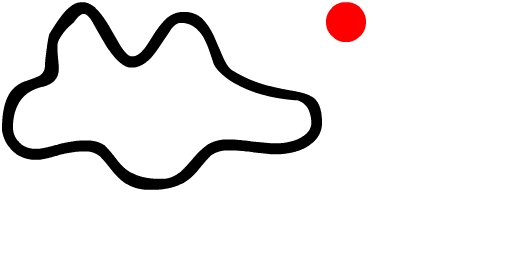
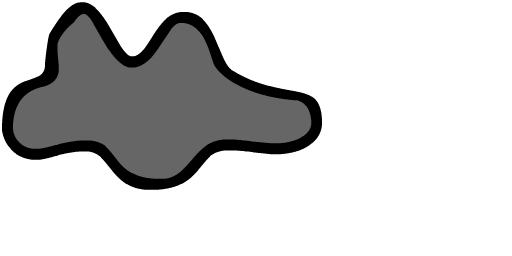
Coloring only happens inside the spaceship piece - includes multiple attempts

Changed region(s): [[0.0, 0.0312, 0.625, 0.7188], [0.625, 0.0, 0.7188, 0.1875]]

diff --git a/ColoringStage.js b/ColoringStage.js
@@ -15,9 +15,38 @@ var ColoringStage = function(assetManager, gameContainer) {
     // cache it (stores it as a seperate canvas)
     coloring.cache(0, 0, canvas.width, canvas.height);
     var spaceShip = assetManager.getSprite("assets");
-    spaceShip.gotoAndStop("outline");
+    spaceShip.gotoAndStop("spaceship");
+
+
+
+    // ATTEMPT IV
+    // http://community.createjs.com/discussions/easeljs/494-composite-operation-on-one-layer-knopckout-mask-as-example
+    // http://www.html5canvastutorials.com/advanced/html5-canvas-global-composite-operations-tutorial/
+    spaceShip.compositeOperation = "destination-atop";
+    spaceShip.cache(0, 0, canvas.width, canvas.height);
+
+
+
+    /*
+    // ATTEMPT III - NOT WORKING
+    // http://community.createjs.com/discussions/easeljs/584-alphamapfilter-using-alpha-png-image-to-mask-jpg
+    var mask = assetManager.getSprite("assets");
+    mask.gotoAndStop("outline");
+    var amf = new createjs.AlphaMaskFilter(mask);
+    screen.filters = [amf];
+    */
+
+    /*
+    // ATTEMPT II - WORKING BUT CUMBERSOME
+    var testy = new createjs.Shape();
+    testy.graphics.drawCircle(100, 100, 100);
+    coloring.mask = testy;
+    */
+
     screen.addChild(coloring);
     screen.addChild(spaceShip);
+
+    //screen.addChild(mask);
 
     // add screen to gameContainer for display
     gameContainer.addChild(screen);
@@ -41,6 +70,16 @@ var ColoringStage = function(assetManager, gameContainer) {
     function paintMe(e) {
         // prevents game scrolling or anything dumb
         e.preventDefault();
+
+
+        /*
+        // ATTEMPT I - WORKING BUT NOT EXACT
+        // only draw if pointer is overtop of spaceShip
+        var point = spaceShip.globalToLocal(e.touches[0].pageX, e.touches[0].pageY);
+        console.log("collision? " + spaceShip.hitTest(point.x, point.y));
+        if (!spaceShip.hitTest(point.x, point.y)) return;
+        */
+
 
         // place paint drop
         coloring.graphics.beginFill(brushColor);

diff --git a/Manifest.js b/Manifest.js
@@ -6,11 +6,8 @@ var manifest = [
         data:{
             "framerate":24,
             "images":["assets.png"],
-            "frames":[[2, 2, 320, 188, 0, 0, 0], [326, 2, 40, 40, 0, 20, 20]],
-            "animations":{
-                "outline": {"frames": [0], "speed": 1},
-                "redPaintDrop": {"frames": [1], "speed": 1}
-            }
+            "frames":[[2, 2, 320, 188, 0, 0, 0]],
+            "animations":{"body": {"frames": [0], "speed": 1}}
         }
 
     }

diff --git a/game.js b/game.js
@@ -28,7 +28,7 @@ var canvas = null;
 var gameContainer = null;
 
 // frame rate of game
-var frameRate = 60;
+var frameRate = 30;
 
 // game objects
 var coloringStage = null;
